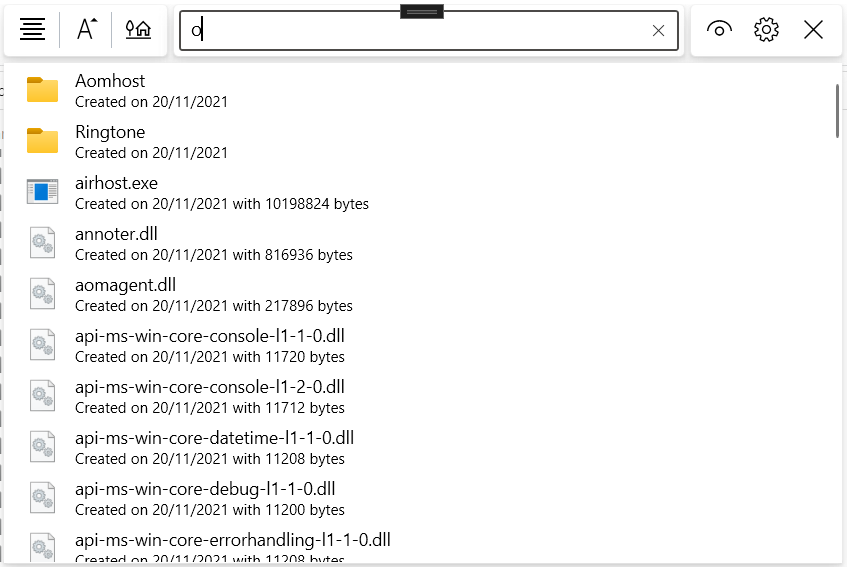
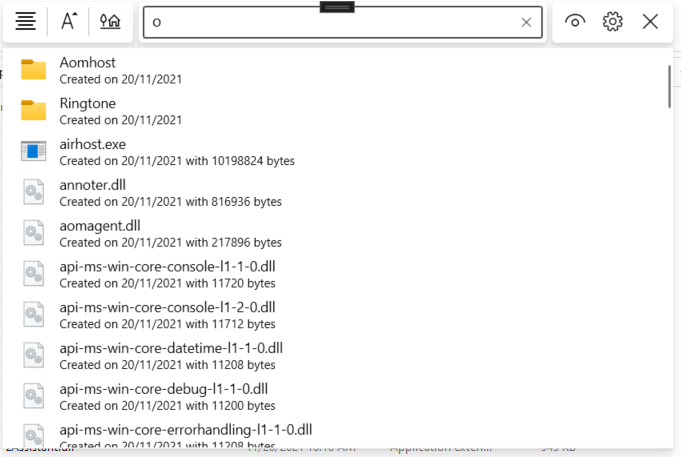
Updated readme.md

Changed region(s): [[0.0, 0.0, 0.9868, 1.0], [0.8326, 0.0306, 1.0, 0.1225], [0.9559, 0.1532, 1.0, 0.2451]]

diff --git a/README.md b/README.md
@@ -71,7 +71,7 @@ With the `IFilterShellView` filter window now open, start typing a search query 
 
 
 Example of a search query:
-<img src="Gallery/View3.png" height="300" align="left"/>
+<img src="Gallery/View3.png" width="300" align="left"/>
 In the image above you can observe the results of a search query. 
 
 Actions that can be performed on a query result item:
